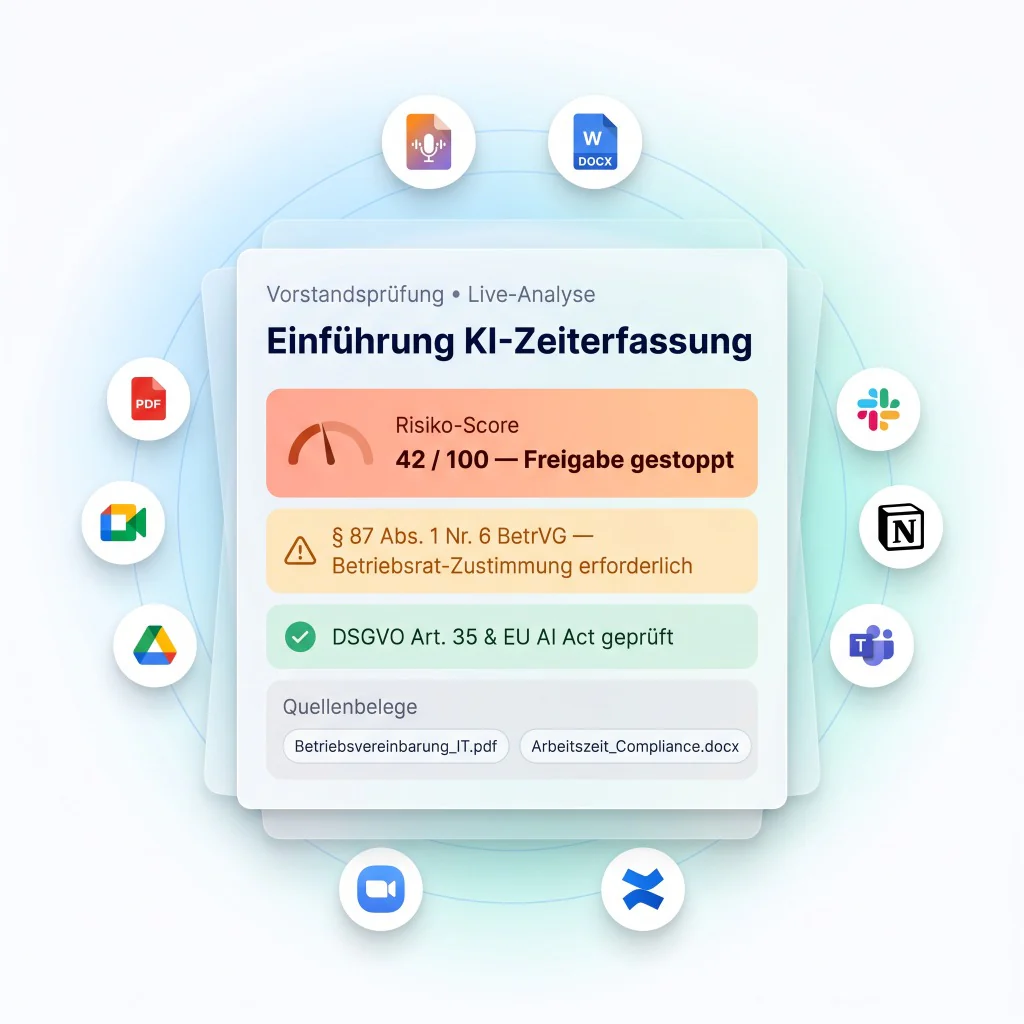
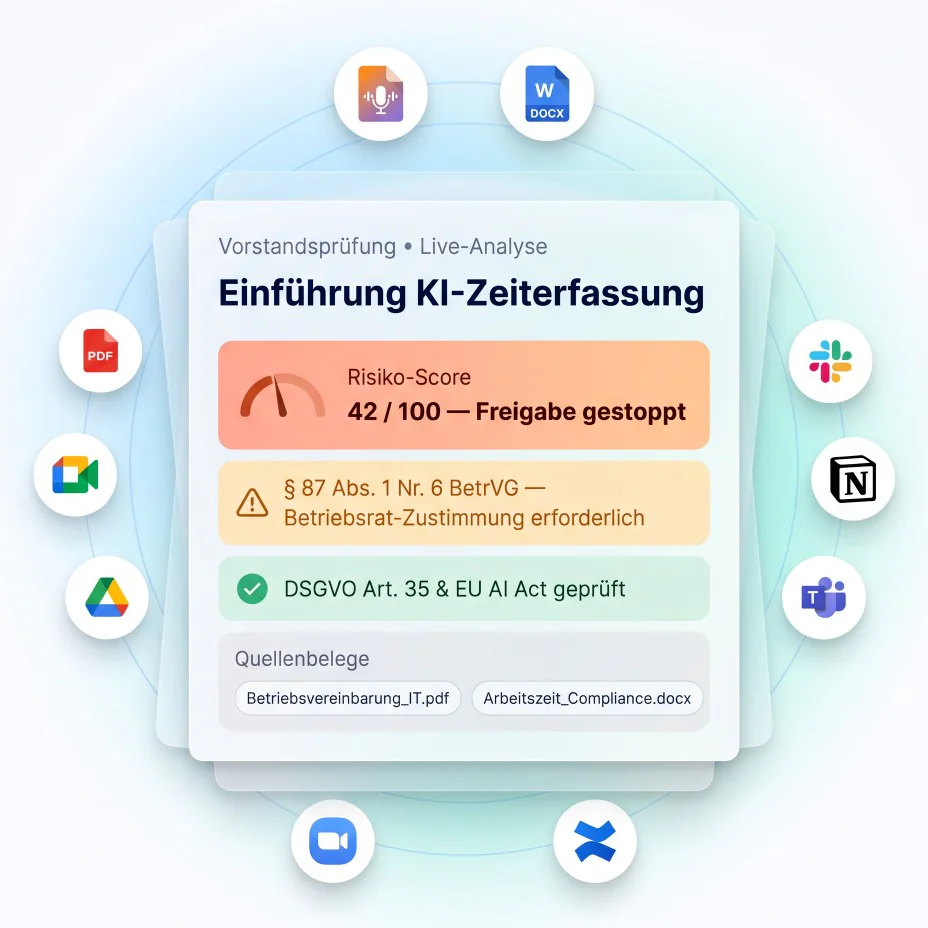
style(marketing): trim dead outer whitespace on Hero WebP and expand Hero visual to balanced 6/6 grid

Changed region(s): [[0.0312, 0.0625, 0.9688, 1.0]]

diff --git a/src/app/marketing/page.tsx b/src/app/marketing/page.tsx
@@ -513,10 +513,10 @@ export default function MarketingLandingPage() {
 
       <main className="w-full pt-16 flex-1">
         {/* HERO SECTION */}
-        <section className="relative w-full max-w-7xl mx-auto px-4 sm:px-8 pt-8 pb-12 sm:pt-12 sm:pb-16 overflow-hidden">
-          <div className="grid grid-cols-1 lg:grid-cols-12 gap-8 lg:gap-10 items-center relative z-10">
-            {/* Left 7 Columns */}
-            <div className="lg:col-span-7 flex flex-col gap-4">
+        <section className="relative w-full max-w-7xl mx-auto px-4 sm:px-8 pt-8 pb-12 sm:pt-10 sm:pb-14 overflow-hidden">
+          <div className="grid grid-cols-1 lg:grid-cols-12 gap-8 lg:gap-6 items-center relative z-10">
+            {/* Left 6 Columns */}
+            <div className="lg:col-span-6 flex flex-col gap-4">
               <div className="inline-flex items-center gap-2 self-start px-3 py-1 rounded-full bg-[#f2f3ff] shadow-sm border border-[#c3c6d7]/50">
                 <span className="w-2 h-2 rounded-full bg-[#006c4a] pulsing-dot" />
                 <span className="font-mono text-[11px] uppercase tracking-wider text-[#131b2e] font-semibold">
@@ -633,9 +633,9 @@ export default function MarketingLandingPage() {
               </div>
             </div>
 
-            {/* Right 5 Columns: Optimized Executive Audit Visual */}
-            <div className="lg:col-span-5 w-full flex items-center justify-center">
-              <div className="relative w-full max-w-[480px] lg:max-w-[540px] mx-auto">
+            {/* Right 6 Columns: Optimized Executive Audit Visual */}
+            <div className="lg:col-span-6 w-full flex items-center justify-center">
+              <div className="relative w-full max-w-[560px] lg:max-w-[620px] mx-auto">
                 <img
                   src="/images/hero-executive-audit.webp"
                   alt={
@@ -643,16 +643,16 @@ export default function MarketingLandingPage() {
                       ? 'MindMittel Live Vorstandsprüfung: Risiko-Score 42/100, BetrVG-Warnung, DSGVO & EU AI Act Prüfung mit Quellenbelegen aus PDF, DOCX, Drive, Slack, Teams, Notion, Confluence, Zoom und Meet'
                       : 'MindMittel Live Executive Audit: Risk Score 42/100, BetrVG alert, GDPR & EU AI Act verification with source citations from PDF, DOCX, Drive, Slack, Teams, Notion, Confluence, Zoom and Meet'
                   }
-                  width={1024}
-                  height={1024}
+                  width={928}
+                  height={928}
                   fetchPriority="high"
                   decoding="async"
                   className="w-full h-auto block select-none"
                   style={{
                     maskImage:
-                      'radial-gradient(ellipse 92% 92% at 50% 50%, black 78%, transparent 100%)',
+                      'radial-gradient(ellipse 96% 96% at 50% 50%, black 82%, transparent 100%)',
                     WebkitMaskImage:
-                      'radial-gradient(ellipse 92% 92% at 50% 50%, black 78%, transparent 100%)',
+                      'radial-gradient(ellipse 96% 96% at 50% 50%, black 82%, transparent 100%)',
                   }}
                 />
               </div>
